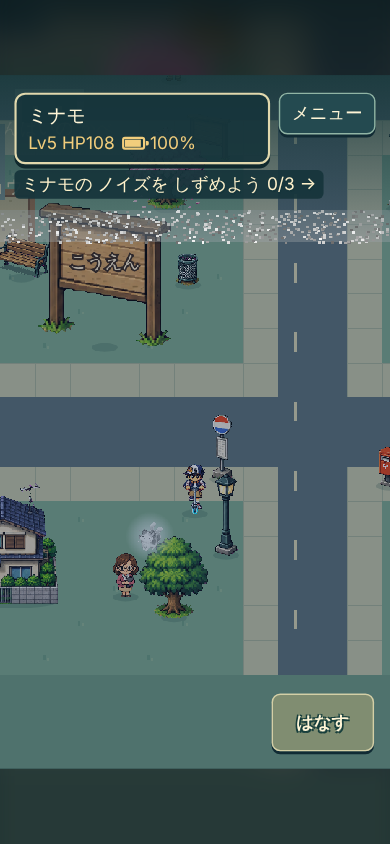
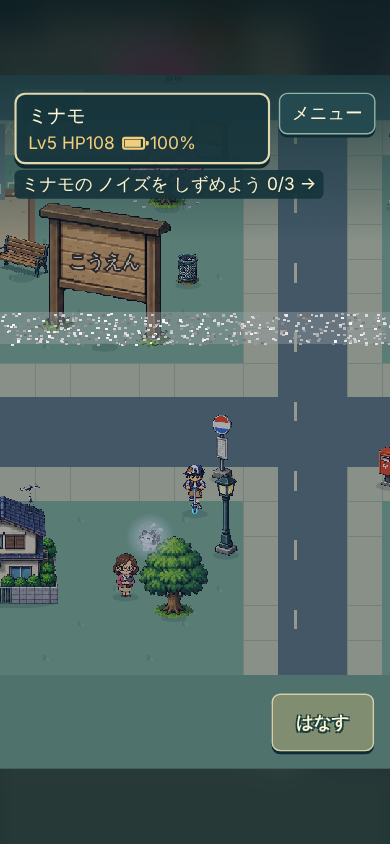
R175: 町のノイズの帯が看板の字と仮の絵の名前を横切らないようにした

diff --git a/v5/index.html b/v5/index.html
@@ -678,11 +678,11 @@ function sprite(kind,index,x,y,w,h,name){const f=frameFor(kind,index);if(f){cons
 // People use the npc sheet (4x4) or npc2 (3x3: Mio, the painter, station staff... SPEC_V6.md 6).
 function isPerson(kind){return kind==='npc'||kind==='npc2';}
 function fallback(kind,index,x,y,w,h,name){ctx.save();ctx.translate(Math.round(x),Math.round(y));if(kind==='hero_walk'||kind==='hero_ride'||isPerson(kind)||kind==='ryosei'){const k=kind==='ryosei'?2:1;const bob=kind==='hero_walk'&&index%4%2?2:0;ctx.scale(k,k);ellipse(0,0,15,5,'#193c3a50');rect(-10,-21+bob,8,19,'#313e58');rect(3,-21-bob,8,19,'#313e58');rect(-17,-43,34,25,isPerson(kind)?['#d28972','#e9bb75','#91a58c','#d2d7b3'][index%4]:'#eac579');rect(-13,-64,27,25,'#f5c6a1');rect(-16,-66,31,9,'#3d3c3b');rect(-16,-60,7,12,'#3d3c3b');rect(4,-53,4,4,'#273d40');if(!isPerson(kind)){rect(12,-29,13,17,'#41646b');rect(-11,-41,24,6,'#fff0bf');}if(kind==='hero_ride'){rect(-24,-7,48,5,'#4f6f86');rect(17,-46,4,40,'#4f6f86');rect(11,-48,16,4,'#2f3d48');ellipse(-18,-1,4,4,'#22272b');ellipse(18,-1,4,4,'#22272b');}}
- else if(BIG(kind)){ellipse(0,-3,w*.45,12,'#1b494b50');rect(-w*.43,-h*.72,w*.86,h*.7,'#ddc28b');rect(-w*.47,-h*.8,w*.94,h*.12,'#345b61');ctx.fillStyle=['#be795f','#609b8d','#607d94'][index%3];ctx.beginPath();ctx.moveTo(-w*.5,-h*.8);ctx.lineTo(-w*.34,-h);ctx.lineTo(w*.34,-h);ctx.lineTo(w*.5,-h*.8);ctx.fill();rect(-w*.11,-h*.3,w*.22,h*.3,'#314951');for(const a of [-1,1]){rect(a*w*.26-w*.09,-h*.57,w*.18,h*.18,'#ffe3a1');rect(a*w*.26-2,-h*.57,4,h*.18,'#7d826c');}if(name){rect(-w*.4,-h*.38,w*.8,32,'#33585c');label(name,0,-h*.38+25,'#fff0c5',24);}}
+ else if(BIG(kind)){ellipse(0,-3,w*.45,12,'#1b494b50');rect(-w*.43,-h*.72,w*.86,h*.7,'#ddc28b');rect(-w*.47,-h*.8,w*.94,h*.12,'#345b61');ctx.fillStyle=['#be795f','#609b8d','#607d94'][index%3];ctx.beginPath();ctx.moveTo(-w*.5,-h*.8);ctx.lineTo(-w*.34,-h);ctx.lineTo(w*.34,-h);ctx.lineTo(w*.5,-h*.8);ctx.fill();rect(-w*.11,-h*.3,w*.22,h*.3,'#314951');for(const a of [-1,1]){rect(a*w*.26-w*.09,-h*.57,w*.18,h*.18,'#ffe3a1');rect(a*w*.26-2,-h*.57,4,h*.18,'#7d826c');}if(name){fieldSignRects.push([y-h*.38-camera.y,y-h*.38+32-camera.y]);rect(-w*.4,-h*.38,w*.8,32,'#33585c');label(name,0,-h*.38+25,'#fff0c5',24);}}
  else if(kind==='props'&&(index===0||index===1)){rect(-9,-h*.5,18,h*.5,'#79725a');ellipse(0,-h*.64,w*.44,h*.34,index===1?'#e0a995':'#628d71');ellipse(-w*.18,-h*.75,w*.28,h*.2,index===1?'#f0c2a9':'#80a081');}
  else if(kind==='props'&&index===4){rect(-w/2,-h*.65,w,20,'#c39a71');rect(-w/2,-h*.3,w,12,'#c39a71');rect(-w*.35,-h*.3,6,h*.3,'#465956');rect(w*.35,-h*.3,6,h*.3,'#465956');}
  else if(kind==='summons'){ellipse(0,-h*.35,w*.42,h*.34,index===0?'#78c4af':'#dcac71');ellipse(-w*.13,-h*.4,6,9,'#253f48');ellipse(w*.13,-h*.4,6,9,'#253f48');rect(-15,-h*.25,30,5,'#fff2c5');if(index===1){ctx.fillStyle='#e9d0a0';ctx.beginPath();ctx.moveTo(-w*.3,-h*.5);ctx.lineTo(-w*.46,-h*.95);ctx.lineTo(-w*.1,-h*.65);ctx.fill();}}
- else{const color=kind==='enemies'?'#a995aa':kind==='bugking'?'#948da2':'#839a94';rect(-w*.43,-h*.86,w*.86,h*.83,color);rect(-w*.34,-h*.76,w*.68,h*.46,'#315965');rect(-w*.2,-h*.58,7,7,'#f7df9f');rect(w*.1,-h*.58,7,7,'#f7df9f');if(kind==='bugking'){rect(-w*.35,-h,30,45,'#f2c66f');rect(-15,-h-15,30,55,'#f2c66f');rect(w*.24,-h,30,45,'#f2c66f');}if(name&&!ASSET_COLS[kind])label(name,0,-h*.12,'#fff0c5',24);}ctx.restore();}
+ else{const color=kind==='enemies'?'#a995aa':kind==='bugking'?'#948da2':'#839a94';rect(-w*.43,-h*.86,w*.86,h*.83,color);rect(-w*.34,-h*.76,w*.68,h*.46,'#315965');rect(-w*.2,-h*.58,7,7,'#f7df9f');rect(w*.1,-h*.58,7,7,'#f7df9f');if(kind==='bugking'){rect(-w*.35,-h,30,45,'#f2c66f');rect(-15,-h-15,30,55,'#f2c66f');rect(w*.24,-h,30,45,'#f2c66f');}if(name&&!ASSET_COLS[kind]){fieldSignRects.push([y-h*.12-26-camera.y,y-h*.12+8-camera.y]);label(name,0,-h*.12,'#fff0c5',24);}}ctx.restore();}
 // R143: the pond (~) and the sandbox (:) get a rim on each side that faces other ground, so they read as a pond and a sandbox, not plain squares.
 function rim(m,x,y,t,w,c,d){const px=x*TILE,py=y*TILE,o=(dx,dy)=>(m.tiles?.[y+dy]?.[x+dx]??t)!==t,u=o(0,-1),b=o(0,1),l=o(-1,0),r=o(1,0);if(u)rect(px,py+w,TILE,2,d);if(b)rect(px,py+TILE-w-2,TILE,2,d);if(l)rect(px+w,py,2,TILE,d);if(r)rect(px+TILE-w-2,py,2,TILE,d);if(u)rect(px,py,TILE,w,c);if(b)rect(px,py+TILE-w,TILE,w,c);if(l)rect(px,py,w,TILE,c);if(r)rect(px+TILE-w,py,w,TILE,c);}
 function ground(m){rect(0,0,m.w*TILE,m.h*TILE,m.outside?'#7eaa8a':'#b89477');for(let y=0;y<m.h;y++)for(let x=0;x<m.w;x++){const px=x*TILE,py=y*TILE;if(m.outside){const tile=m.tiles?.[y]?.[x]||'.';if(tile==='~'){rect(px,py,TILE,TILE,'#537e8a');rect(px+8,py+22+Math.sin(gameTime/900+x)*8,26,3,'#a5c4bd');rim(m,x,y,'~',8,'#d8cfa8','#9c9677');}else if(tile===':'){rect(px,py,TILE,TILE,'#c9bb8c');if((x*5+y*3)%4===0){rect(px+12,py+14,3,3,'#b3a473');rect(px+30,py+30,3,3,'#b3a473');}else rect(px+22,py+24,3,3,'#e2d6a8');rim(m,x,y,':',8,'#a4744a','#7a5233');}else if(tile==='='){rect(px,py,TILE,TILE,'#5e7275');if(m.tiles?.[y-1]?.[x]==='='&&m.tiles?.[y+1]?.[x]==='='&&x%3===2&&y%2===0)rect(px+22,py+6,4,27,'#d8d6af');if(m.tiles?.[y]?.[x-1]==='='&&m.tiles?.[y]?.[x+1]==='='&&y%3===0&&x%2===0)rect(px+6,py+22,27,4,'#d8d6af');}else if(tile==='#'){rect(px,py,TILE,TILE,(x+y)%2?'#4d4766':'#544d6e');rect(px,py,TILE,1,'#6a6188');rect(px,py,1,TILE,'#6a6188');}else if(tile==='+'){rect(px,py,TILE,TILE,'#c5c8a6');rect(px,py,1,TILE,'#a6b294');rect(px,py,TILE,1,'#a6b294');}else{if((x+y)%3===0){rect(px+11,py+21,3,7,'#6d9c7e');rect(px+16,py+25,3,4,'#91b590');}}}else if(m.tiles?.[y]?.[x]==='g'){rect(px,py,TILE-1,TILE-2,(x+y)%2?'#132a42':'#183350');rect(px,py,TILE-1,1,'#3c7bbf');rect(px,py,1,TILE-2,'#3c7bbf');}else{rect(px,py,TILE-1,TILE-2,(x+y)%2?'#b69678':'#c0a080');}}if(!m.outside){rect(0,0,m.w*TILE,2*TILE,'#59706c');rect(0,2*TILE,m.w*TILE,10,'#d1b486');rect(0,0,20,m.h*TILE,'#59706c');rect((m.w-1)*TILE+28,0,20,m.h*TILE,'#59706c');}}
@@ -693,7 +693,7 @@ function coverHud(m,list){const el=$('hud');if(!el)return;const top=camera.y+hud
 function drawTags(m,target){const dest=questDest(questStep());let destObj=null;if(dest)destObj=dest.map===g.map?dest.obj||null:m.outside?m.objects.find(o=>o.enter===dest.map)||null:null;for(const o of new Set([destObj,target])){if(!o)continue;const d=dimensions(o),f=frameFor(o.kind,o.frame),cx=o.x*TILE;let y=Math.max(o.y*TILE-d.h*(1-(f?.top??0))-8-(o.sign&&o.kind==='numberperson'?32:0),camera.y+hudTop+44);if(o.label){const tw=[...o.label].length*24+20;fieldSignRects.push([y-34-camera.y,y-camera.y]);rect(cx-tw/2,y-34,tw,34,'#244b49ee');label(o.label,cx,y-9,'#fff0c5',24);y-=40;}else if(o===target){fieldSignRects.push([y-28-camera.y,y+6-camera.y]);label('▾',cx,y+Math.sin(gameTime/200)*3,'#fff1ac',28);y-=26;}if(o===destObj){fieldSignRects.push([y-24-camera.y,y+6-camera.y]);}if(o===destObj)label('▼',cx,y+Math.sin(gameTime/260)*4,'#f6d06f',22);}}
 // Until BUG KING falls the town sits under a blue night tint with a passing static band; the clear fades it out over two seconds.
 // R168: the noise band never crosses the hero or the one they can talk to (its name tag and ▼ sit above it, never above the HUD line), so neither is hidden; for a building only its door part is kept clear. No free row = no band this time.
-// R175: the words of a sign (こうえん etc.) and the name tags on screen (fieldSignRects) are kept clear too.
+// R175: the words of a sign (こうえん etc.), the name tags and the names on stand-in pictures (しんぱいの かべ etc.) on screen (fieldSignRects) are kept clear too.
 function noiseRow(target){const keep=[[g.y-camera.y-100,g.y-camera.y+30],...fieldSignRects];if(target){const ty=target.y*TILE-camera.y,top=ty-(BIG(target.kind)?Math.min(dimensions(target).h,110):dimensions(target).h)-(target.sign&&target.kind==='numberperson'?32:0)-72;keep.push([top,top<hudTop+44?Math.max(ty+30,hudTop+44+40):ty+30]);}for(let i=0;i<12;i++){const y=180+Math.random()*(H-420);if(keep.every(([a,b])=>y+22<a||y-22>b))return y;}return -999;}
 function drawNoise(target){let a=townCleared()?(g.clearFade==null?0:Math.max(0,1-(gameTime-g.clearFade)/2000)):1;if(a<=0)return;ctx.save();ctx.globalAlpha=a;rect(0,0,W,H,'#10204a55');if(gameTime>noiseNext){noiseNext=gameTime+2000+Math.random()*2000;noiseUntil=gameTime+300;noiseBandY=noiseRow(target);}if(gameTime<noiseUntil&&noiseBandY>0){rect(0,noiseBandY-22,W,44,'#9aa3a866');for(let i=0;i<520;i++){const v=110+Math.random()*140|0;rect(Math.random()*W,noiseBandY+Math.random()*44-22,4,3,`rgb(${v},${v},${v})`);}}ctx.restore();}
 function drawRecruitFx(){const fx=g.recruitFx;if(!fx)return;const t=gameTime-fx.start;if(t>1500){g.recruitFx=null;return;}const s=GAME_DATA.summons[fx.id];if(!s)return;ctx.save();ctx.globalAlpha=Math.max(0,Math.min(1,t/250,(1500-t)/300));rect(0,0,W,H,'#0b1f3c99');drawSora(270,480,70);sprite('summons',s.frame,270,640-Math.min(1,t/400)*30,290,290,s.name);ctx.restore();}

diff --git a/autodev/ROADMAP.md b/autodev/ROADMAP.md
@@ -179,7 +179,7 @@
 - [x] R172 | ボス戦の始めにボスの台詞が「キックボードが うかんだ」の帯の下で出て、ひとりで読める時間が0.85秒しかない件を調べた（コードは変えていない） | 台詞を遅らせる案と長くする案を試し、R86・R97・R158 のテストが0.7秒の出だしとヒントの長さを決めているため、どちらも6件ほど落ちることを確かめた
 - [!] R173 | ボス戦の始めのボスの台詞を、帯が消えた後にひとりで読めるようにするか決める（R158 で決めた0.7秒の出だしを変えることになる） | 司令塔か今井さんが「台詞を帯の後（1.85秒）に出してよい」と決めたら、この行を [x] にし、R86・R158 のテストを新しい時間に合わせる件を足す
 - [x] R174 | おさらいで間違えた時の「〜の答えは」を「〜の意味は」にし、最後の行が「こと。」だけにならないようにした | tools/smoke_v5.cjs で全章を通し、スクショを確認役に見せて気になる所を挙げさせ、一番大きい1つを直す。直した所の前と後のスクショがある
-- [ ] R175 | 遊んで一番気になる所を1つ直す | tools/smoke_v5.cjs で全章を通し、スクショを確認役に見せて気になる所を挙げさせ、一番大きい1つを直す。直した所の前と後のスクショがある
+- [x] R175 | 町のノイズの帯が、看板の字（こうえん など）と仮の絵の名前を横切らないようにした | tools/smoke_v5.cjs で全章を通し、スクショを確認役に見せて気になる所を挙げさせ、一番大きい1つを直す。直した所の前と後のスクショがある
 
 ## くりかえし
 

diff --git a/autodev/last_run.md b/autodev/last_run.md
@@ -1,5 +1,5 @@
-- 全章を通したスクショを確認役に見せ、気になる所を5つ挙げてもらった
-- おさらいの不正解の画面で「〜の答えは」を問題と同じ「〜の意味は」にした
-- 窓の文の最後の行が「こと。」だけにならないよう、行の切り方を整えた
-次: 動かし方の案内がボスの台詞と同時に出て読めない件は、R173 の判断と一緒に決める
-時刻: 2026-10-21 19:05
+- 全章のスクショを確認役に見せ、気になる所を5つ挙げてもらった
+- ミナモで、ノイズの帯が「こうえん」の看板の字を横切っていた（150回中42回）
+- 帯が看板の字と名前の札を避けるようにし、150回中0回になった
+次: ヒカクマオウ戦のヒントが薄く写ったのは出始めの0.17秒を撮っただけなので、直していない
+時刻: 2026-10-22 19:00
